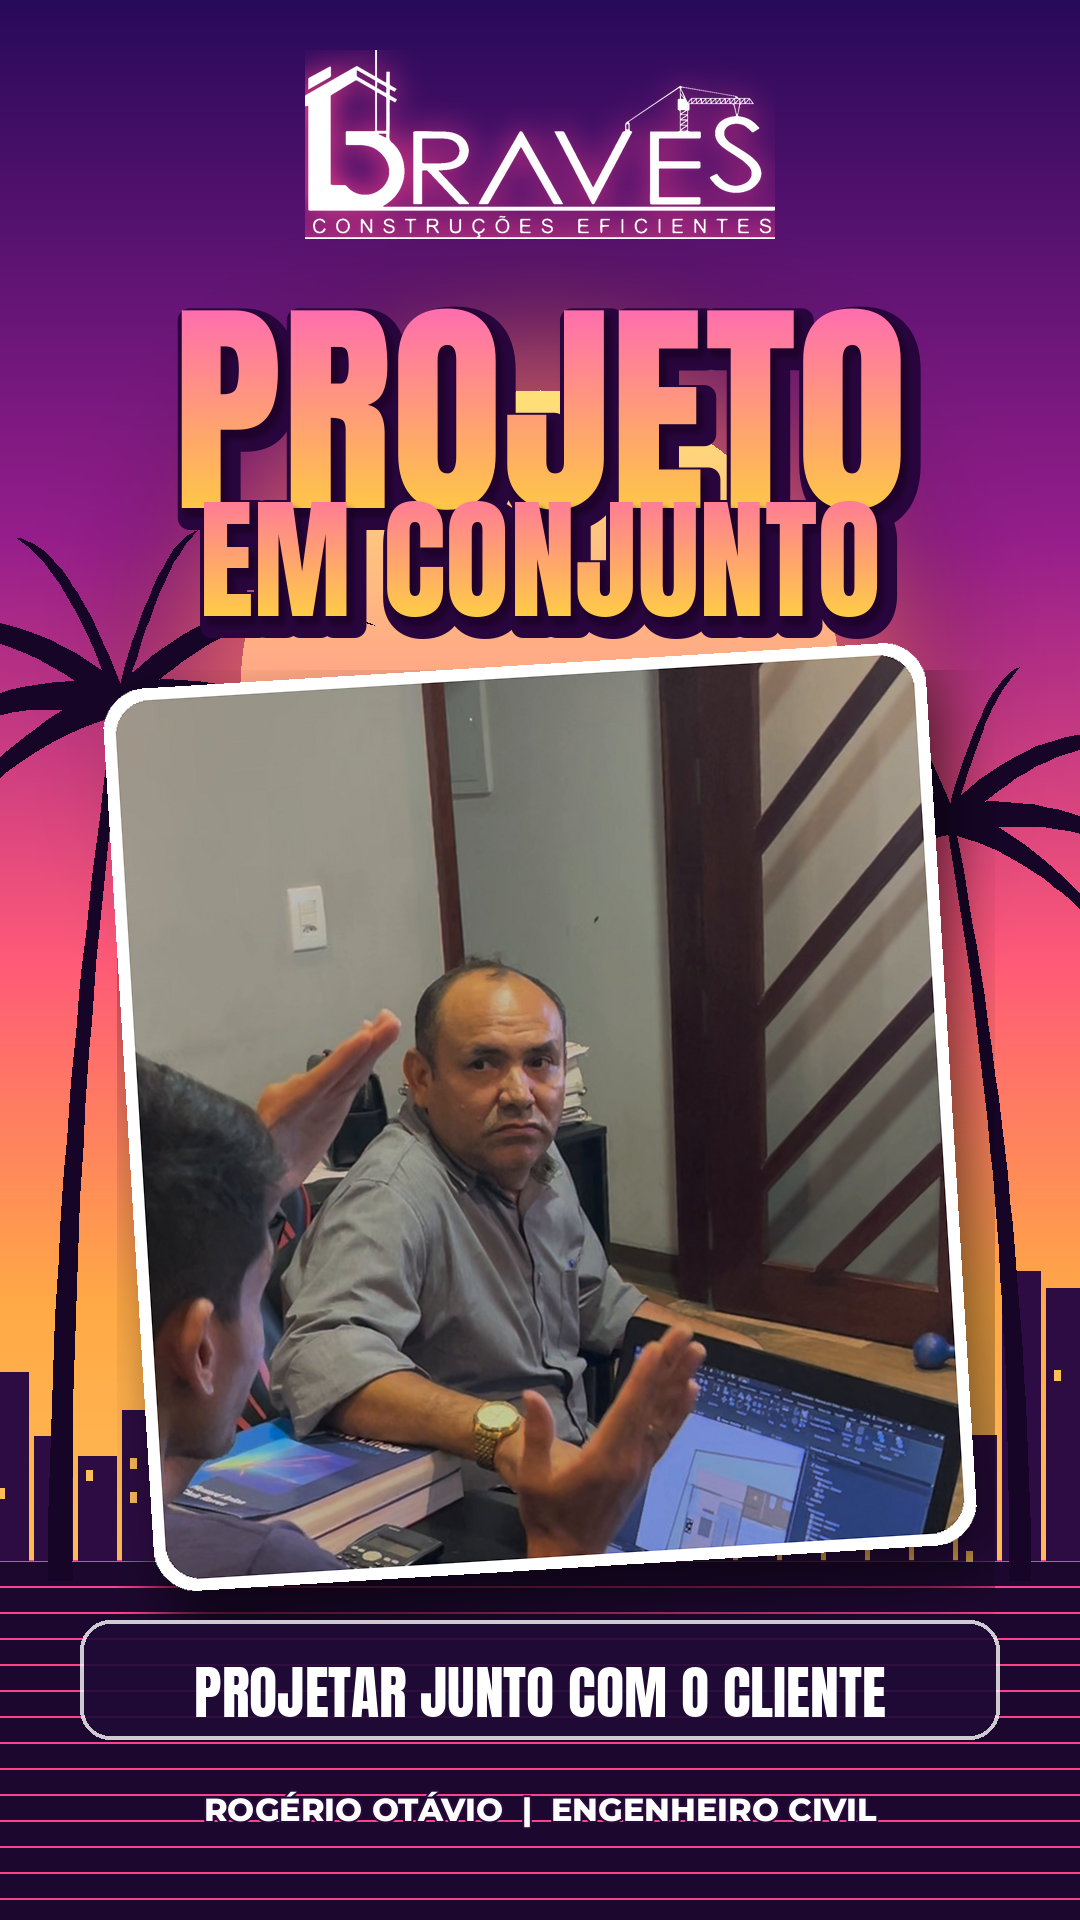
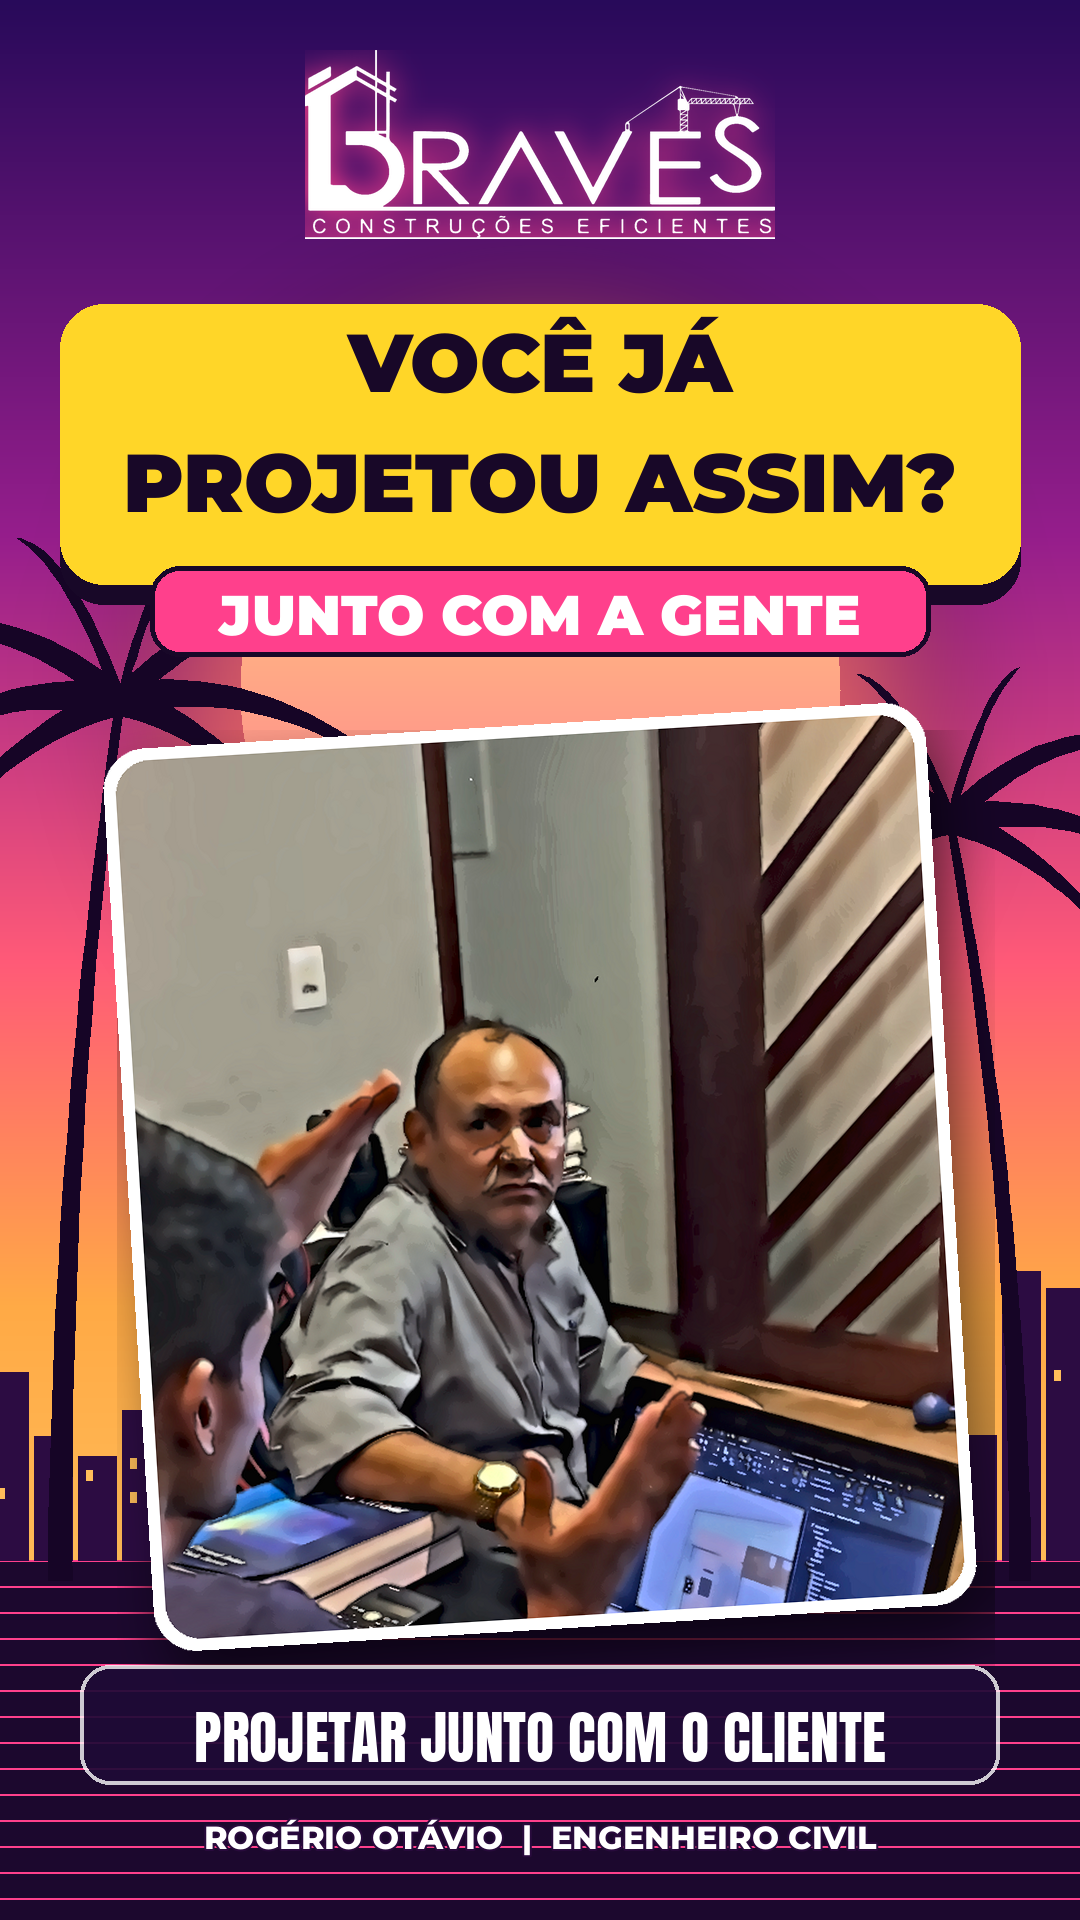
Legendas do vídeo 4, capa e título atualizados no playbook
Claude-Session: https://claude.ai/code/session_01EnA51YgnM45PoSNk2yJuLA

diff --git a/producao-braves/capa_game.py b/producao-braves/capa_game.py
@@ -5,7 +5,23 @@ BASE="/tmp/claude-0/-home-user-Braves-Bim-Field-/3f640666-8982-5ee9-9c23-19b2a74
 exec(open(BASE+"previa_game.py").read().split("# ---------- quadro 1")[0])
 
 import random
-bg=np.clip(frame("IMG_1054.MOV",2.2),0,255).astype(np.uint8)  # foto natural (sem filtro)
+def caricatura(img):
+    """Foto -> arte de capa de jogo mantendo o rosto reconhecível: pintura suave, contorno fino, cor viva."""
+    sm = img.copy()
+    for _ in range(2): sm = cv2.bilateralFilter(sm, 11, 40, 9)                 # pele lisa, bordas preservadas
+    sm = cv2.detailEnhance(sm, sigma_s=12, sigma_r=0.18)                        # volume e definição
+    g = cv2.cvtColor(img, cv2.COLOR_RGB2GRAY); g = cv2.GaussianBlur(g, (0, 0), 1.6)
+    ed = cv2.Canny(g, 40, 110); ed = cv2.dilate(ed, np.ones((2, 2), np.uint8)); ed = cv2.GaussianBlur(ed, (0, 0), 0.9).astype(np.float32) / 255.0
+    out = sm.astype(np.float32) * (1 - 0.55 * ed[..., None])                    # contorno fino tipo HQ
+    lab = cv2.cvtColor(np.clip(out, 0, 255).astype(np.uint8), cv2.COLOR_RGB2LAB).astype(np.float32); L = lab[..., 0]
+    lab[..., 0] = 0.7 * L + 0.3 * (np.round(L / 20.0) * 20.0)                    # leve sombreado em degraus
+    out = cv2.cvtColor(np.clip(lab, 0, 255).astype(np.uint8), cv2.COLOR_LAB2RGB)
+    hsv = cv2.cvtColor(out, cv2.COLOR_RGB2HSV).astype(np.float32); hsv[..., 1] = np.clip(hsv[..., 1] * 1.12, 0, 255); hsv[..., 2] = np.clip(hsv[..., 2] * 1.05 + 4, 0, 255)
+    out = cv2.cvtColor(hsv.astype(np.uint8), cv2.COLOR_HSV2RGB)
+    # luz de pôr do sol só nas bordas (rim light quente), sem tingir a pele
+    yy, xx = np.mgrid[0:out.shape[0], 0:out.shape[1]]; rim = np.clip((xx / out.shape[1] - 0.55) * 1.6, 0, 1)[..., None] * np.array([40, 18, 0], np.float32)
+    return np.clip(out.astype(np.float32) + rim, 0, 255).astype(np.uint8)
+bg=caricatura(np.clip(frame("IMG_1054.MOV",2.2),0,255).astype(np.uint8))
 # ---- céu de pôr do sol estilo "cidade neon" ----
 sky=np.zeros((H,W,3),np.float32)
 stops=[(0,(40,10,90)),(0.28,(150,30,140)),(0.5,(255,90,120)),(0.68,(255,170,70)),(1.0,(255,210,110))]
@@ -49,20 +65,27 @@ m=Image.new("L",(pw,pH),0); ImageDraw.Draw(m).rounded_rectangle((0,0,pw-1,pH-1),
 fr=Image.new("RGBA",(pw+24,pH+24),(0,0,0,0)); fd=ImageDraw.Draw(fr); fd.rounded_rectangle((0,0,pw+23,pH+23),42,fill=(255,255,255,255)); fr.alpha_composite(ph,(12,12))
 fr=fr.rotate(3.5,resample=Image.BICUBIC,expand=True)
 sh=Image.new("RGBA",fr.size,(0,0,0,0)); sh.putalpha(fr.getchannel("A").point(lambda v:int(v*0.55))); sh=sh.filter(ImageFilter.GaussianBlur(26))
-img.alpha_composite(sh,((W-fr.width)//2+16,640+30)); img.alpha_composite(fr,((W-fr.width)//2,640))
+img.alpha_composite(sh,((W-fr.width)//2+16,700+30)); img.alpha_composite(fr,((W-fr.width)//2,700))
 # logo no topo
 logo=Image.open(BASE+"logos/word_white.png").convert("RGBA"); lw=470; lh=int(logo.height*lw/logo.width); logo=logo.resize((lw,lh),Image.LANCZOS)
 gl=np.array(logo); gl[...,0],gl[...,1],gl[...,2]=(255,64,140); gl=Image.fromarray(gl).filter(ImageFilter.GaussianBlur(14))
 img.alpha_composite(gl,((W-lw)//2,50)); img.alpha_composite(logo,((W-lw)//2,50))
 # título grande com degradê e contorno
-for txt_,fs,cy_ in (("PROJETO",230,410),("EM CONJUNTO",132,560)):
-    d.text((548,cy_+10),txt_,font=F(fs),fill=(40,5,60,255),anchor="mm",stroke_width=12,stroke_fill=(40,5,60,255))
-arr=np.array(img.convert("RGB"))
-arr=grad_text(arr,"PROJETO",F(230),(540,410),anchor="mm",c0=(255,110,175),c1=(255,200,70)); arr=grad_text(arr,"EM CONJUNTO",F(132),(540,560),anchor="mm",c0=(255,125,150),c1=(255,205,70))
+_im=Image.fromarray(np.array(img.convert("RGB"))).convert("RGBA"); _d=ImageDraw.Draw(_im,"RGBA")
+_lines=("VOCÊ JÁ","PROJETOU ASSIM?"); _fs=150
+while M(_fs,900).getlength(_lines[1])>860: _fs-=4
+_f=M(_fs,900)
+_d.rounded_rectangle((60,324,1020,604),44,fill=(24,8,40,255))
+_d.rounded_rectangle((60,304,1020,584),44,fill=(255,214,40,255))
+for _t,_y in zip(_lines,(318,438)):
+    _w=_d.textlength(_t,font=_f); _d.text(((W-_w)/2,_y-6),_t,font=_f,fill=(24,8,40,255))
+_d.rounded_rectangle((150,566,930,656),30,fill=(255,64,140,255),outline=(24,8,40,255),width=5)
+_f=M(56,900); _t="JUNTO COM A GENTE"; _w=_d.textlength(_t,font=_f); _d.text(((W-_w)/2,580),_t,font=_f,fill=(255,255,255,255))
+arr=np.array(_im.convert("RGB"))
 img=Image.fromarray(arr).convert("RGBA"); d=ImageDraw.Draw(img,"RGBA")
 # faixa inferior
 band=Image.new("RGBA",(920,120),(0,0,0,0)); bd=ImageDraw.Draw(band); bd.rounded_rectangle((0,0,919,119),30,fill=(30,10,54,235),outline=(255,255,255,200),width=4)
 txt="PROJETAR JUNTO COM O CLIENTE"; f=F(58); w_=bd.textlength(txt,font=f); bd.text(((920-w_)/2,28),txt,font=f,fill=(255,255,255,255))
-img.alpha_composite(band,(80,1620))
-d=ImageDraw.Draw(img,"RGBA"); t2="ROGÉRIO OTÁVIO  |  ENGENHEIRO CIVIL"; ff=M(32,800); w2=d.textlength(t2,font=ff); d.text(((W-w2)/2,1790),t2,font=ff,fill=(255,255,255,240),stroke_width=2,stroke_fill=(40,10,60,255))
+img.alpha_composite(band,(80,1665))
+d=ImageDraw.Draw(img,"RGBA"); t2="ROGÉRIO OTÁVIO  |  ENGENHEIRO CIVIL"; ff=M(32,800); w2=d.textlength(t2,font=ff); d.text(((W-w2)/2,1818),t2,font=ff,fill=(255,255,255,240),stroke_width=2,stroke_fill=(40,10,60,255))
 img.convert("RGB").save(V2+"capa_game.png"); print("capa game ok")

diff --git a/producao-braves/gera_game.py b/producao-braves/gera_game.py
@@ -46,7 +46,20 @@ def gtext_layer(size, items):
         for c in range(3): g[..., c] = (c0[c] * (1 - tt_) + c1[c] * tt_).astype(np.uint8)
         layer = Image.fromarray(g).convert("RGBA"); layer.putalpha(mask); base_.alpha_composite(layer)
     return np.array(base_)
-TITLE_IMG = gtext_layer((1080, 470), [("PROJETO", F(210), (540, 120), (255, 255, 255), (255, 214, 90), 0), ("EM CONJUNTO", F(132), (540, 300), (255, 236, 150), (255, 190, 60), 0)])
+def _mont9(sz):
+    f = ImageFont.truetype(BASE + "fontes/Montserrat.ttf", sz)
+    try: f.set_variation_by_axes([900])
+    except Exception: pass
+    return f
+def make_title():
+    k = 2; im = Image.new("RGBA", (1080 * k, 260 * k), (0, 0, 0, 0)); d = ImageDraw.Draw(im)
+    d.rounded_rectangle((70 * k, 20 * k, 1010 * k, 150 * k), 30 * k, fill=(24, 8, 40, 255))      # sombra
+    d.rounded_rectangle((70 * k, 4 * k, 1010 * k, 134 * k), 30 * k, fill=(255, 214, 40, 255))
+    f = _mont9(56 * k); t = "VOCÊ JÁ PROJETOU ASSIM?"; w = d.textlength(t, font=f); d.text(((1080 * k - w) / 2, 34 * k), t, font=f, fill=(24, 8, 40, 255))
+    d.rounded_rectangle((250 * k, 154 * k, 830 * k, 239 * k), 24 * k, fill=(255, 64, 140, 255), outline=(24, 8, 40, 255), width=4 * k)
+    f2 = _mont9(48 * k); t2 = "JUNTO COM A GENTE"; w2 = d.textlength(t2, font=f2); d.text(((1080 * k - w2) / 2, 168 * k), t2, font=f2, fill=(255, 255, 255, 255))
+    return np.array(im.resize((1080, 260), Image.LANCZOS))
+TITLE_IMG = make_title()
 MISSION_IMG = gtext_layer((1080, 620), [("MISSÃO", F(210), (540, 130), (255, 215, 90), (255, 150, 40), 0), ("CUMPRIDA", F(210), (540, 345), (255, 215, 90), (255, 150, 40), 0)])
 _mi = Image.fromarray(MISSION_IMG); _md = ImageDraw.Draw(_mi); _f = M_ = None
 def _mont(sz, w=800):
@@ -87,8 +100,8 @@ def overlays(out, t):
         e = back((t - 0.15) / 0.4); ex = ease((t - 1.45) / 0.28) if t > 1.45 else 0.0
         blend(out, CARD_IMG, int(lerp(-1000, 117, min(1.2, e))) - int(ex * 1100), 262, min(1, (t - 0.15) / 0.1))
     if 1.6 <= t < HOOK_END + 0.35:
-        exit_p = ease((t - HOOK_END) / 0.3) if t > HOOK_END else 0.0; fa = 1 - exit_p; p = back((t - 1.6) / 0.45); sc = max(0.2, min(0.62, 0.25 + 0.37 * p))
-        im2 = cv2.resize(TITLE_IMG, (int(1080 * sc), int(470 * sc))); blend(out, im2, (W - im2.shape[1]) // 2, 255 + int((470 * 0.62 - im2.shape[0]) / 2) - int(exit_p * 70), fa * min(1, (t - 1.6) / 0.2))
+        exit_p = ease((t - HOOK_END) / 0.3) if t > HOOK_END else 0.0; fa = 1 - exit_p; p = back((t - 1.6) / 0.45); sc = max(0.3, min(1.05, 0.55 + 0.45 * p))
+        im2 = cv2.resize(TITLE_IMG, (int(1080 * sc), int(260 * sc))); blend(out, im2, (W - im2.shape[1]) // 2, 262 + int((260 - im2.shape[0]) / 2) - int(exit_p * 70), fa * min(1, (t - 1.6) / 0.2))
     objective_hud(out, t)
     top_chip_anim(out, t, *E_chip); top_chip_anim(out, t, *E_chip2)
     for (t0_, d_, txt_, col_) in E_imp: impact(out, t, t0_, d_, txt_, col_, y=300)

diff --git a/producao-braves/previa_titulo.py b/producao-braves/previa_titulo.py
@@ -1,0 +1,40 @@
+import math, importlib.util
+import numpy as np, cv2
+from PIL import Image, ImageDraw, ImageFont, ImageFilter
+BASE="/tmp/claude-0/-home-user-Braves-Bim-Field-/3f640666-8982-5ee9-9c23-19b2a7448cf6/scratchpad/edit-ia-pro/"; V2=BASE+"video2/"
+exec(open(BASE+"previa_game.py").read().split("# ---------- quadro 1")[0])
+bg=np.clip(frame("IMG_1054.MOV",2.2),0,255).astype(np.uint8)
+def MB(sz,w=900):
+    f=ImageFont.truetype(BASE+"fontes/Montserrat.ttf",sz)
+    try: f.set_variation_by_axes([w])
+    except Exception: pass
+    return f
+def AN(sz): return ImageFont.truetype(BASE+"fontes/Anton-Regular.ttf",sz)
+def base():
+    return Image.fromarray(bg).convert("RGBA")
+def center(d,txt,f,y,fill,stroke=0,sf=None):
+    w=d.textlength(txt,font=f); d.text(((1080-w)/2,y),txt,font=f,fill=fill,stroke_width=stroke,stroke_fill=sf)
+def A():   # placa escura + faixa rosa
+    im=base(); d=ImageDraw.Draw(im,"RGBA"); y=255
+    d.rounded_rectangle((80,y,1000,y+250),34,fill=(24,8,40,235),outline=(255,64,140,255),width=6)
+    center(d,"SEU PROJETO",MB(84),y+28,(255,255,255,255)); center(d,"FEITO COM VOCÊ",MB(84),y+128,(255,214,90,255))
+    return im
+def B():   # pergunta em caixa amarela (alto impacto)
+    im=base(); d=ImageDraw.Draw(im,"RGBA"); y=270
+    d.rounded_rectangle((70,y,1010,y+130),30,fill=(255,214,40,255)); d.rounded_rectangle((70,y+16,1010,y+146),30,fill=(24,8,40,255)); d.rounded_rectangle((70,y,1010,y+130),30,fill=(255,214,40,255))
+    center(d,"VOCÊ JÁ PROJETOU ASSIM?",MB(56),y+36,(24,8,40,255))
+    d.rounded_rectangle((250,y+150,830,y+235),24,fill=(255,64,140,255)); center(d,"JUNTO COM A GENTE",MB(48),y+168,(255,255,255,255))
+    return im
+def C():   # neon rosa/ciano
+    im=base(); lay=Image.new("RGBA",im.size,(0,0,0,0)); d=ImageDraw.Draw(lay)
+    for i,(t,c) in enumerate((("PROJETE",(255,64,140)),("COM A GENTE",(70,230,255)))):
+        f=MB(130 if i==0 else 104); w=d.textlength(t,font=f); d.text(((1080-w)/2,255+i*150),t,font=f,fill=c+(255,))
+    gl=lay.filter(ImageFilter.GaussianBlur(14)); im.alpha_composite(gl); im.alpha_composite(gl); 
+    d2=ImageDraw.Draw(im)
+    for i,t in enumerate(("PROJETE","COM A GENTE")):
+        f=MB(130 if i==0 else 104); w=d2.textlength(t,font=f); d2.text(((1080-w)/2,255+i*150),t,font=f,fill=(255,255,255,255),stroke_width=3,stroke_fill=((255,64,140) if i==0 else (70,230,255)))
+    return im
+ims=[x().convert("RGB").resize((540,960),Image.LANCZOS) for x in (A,B,C)]
+out=Image.new("RGB",(1620+40,960),(20,10,30)); 
+for i,x in enumerate(ims): out.paste(x,(i*560,0))
+out.save(V2+"previa_titulo.png")

diff --git a/producao-braves/textos/legendas_video4_game.md b/producao-braves/textos/legendas_video4_game.md
@@ -1,0 +1,36 @@
+# Legendas de postagem: vídeo 4 (versão game) "Você já projetou assim?"
+
+Sem preço, prazo, promessa de ganho ou número de WhatsApp. Convite final: "Chama no direct".
+
+## Instagram (longa)
+Você já projetou assim? Junto com a gente? 🏗
+
+Aqui na Braves o projeto não chega pronto: primeiro a gente escuta a sua ideia, apresenta uma prévia e ajusta cada detalhe com você antes de avançar.
+
+O resultado:
+✅ O proprietário aprova o que está vendo
+✅ A mão de obra entende o projeto e executa com mais facilidade
+✅ Tudo conferido tecnicamente antes da obra
+
+No modelo BIM, estrutura, arquitetura, água e esgoto e elétrica são conferidas juntas, e os conflitos são resolvidos antes de construir. Você vê como vai ficar antes de gastar com obra.
+
+Projetamos sempre com o cliente. Isso é Braves Engenharia. 💙
+
+Quer projetar ou reformar? Chama no direct! 📩
+
+## Instagram (curta)
+Você já projetou assim? Junto com a gente! 🏗 A gente escuta, mostra a prévia e ajusta cada detalhe antes da obra. Chama no direct!
+
+## TikTok (curta)
+Projeto feito junto com você: escuta, prévia, ajuste e só depois obra. 🏗 Chama no direct!
+
+## TikTok (com pergunta)
+Você já fechou projeto sem ver como a casa ia ficar? 👀 Aqui a gente mostra a prévia antes de construir. Conta nos comentários e chama no direct!
+
+## Hashtags
+#construcaocivil #engenhariacivil #bim #projeto3d #obra #braves #reforma #projetoarquitetonico #construcao #engenharia
+
+## Notas
+- Capa: `exemplos/capa_game.png`.
+- Serve também para o vídeo 3 (versão normal).
+- Confirmar se o nome para postagem é "Braves Engenharia" ou "Braves Construções Eficientes".

diff --git a/producao-braves/PLAYBOOK.md b/producao-braves/PLAYBOOK.md
@@ -78,6 +78,8 @@ O que o cliente já disse e o que se deduz:
 - **Vídeo 3 "Projeto feito junto com o cliente":** `gera_reuniao.py` gera `montar_reuniao.py` (cortes sem a mulher, legenda estilo C, simulação da conversa com painel BIM). Áudio e capa: `mix_reuniao.py`, `capa_reuniao.py`, `intro_reuniao.py`.
 - **Vídeo 4 versão game:** `gera_game.py` gera `montar_game.py` a partir do vídeo 3 (HUD de objetivo, habilidades desbloqueadas, MISSÃO CUMPRIDA). Capa estilo GTA VI em `capa_game.py` (céu de pôr do sol, palmeiras, skyline, foto **natural**). É só inspiração visual: sem logo, nome ou arte do jogo (propriedade intelectual). Áudio: `mix_game.py`.
 - **Modelo BIM:** `casa_bim.py` (modelos A e B, linha do tempo `TL`, legendas por ambiente). Teste com `python3 -I teste_bim.py saida.jpg A 6 7.5`.
+- **Título do vídeo 4 (aprovado):** caixa amarela "VOCÊ JÁ PROJETOU ASSIM?" + etiqueta rosa "JUNTO COM A GENTE" (Montserrat 900), acima dos rostos e abaixo da área coberta pela interface. "Projeto em conjunto" e a fonte condensada dourada foram reprovados. Prévia de opções: `previa_titulo.py`. Capa: foto estilizada como arte realista (sem avatares; avatares foram reprovados).
+- Textos de postagem: `textos/legendas_video4_game.md`.
 - Cada renderização leva cerca de 10 min (4 CPUs): rode em segundo plano e confira por quadros.
 
 ## 4. Como o trabalho com o cliente deve fluir
